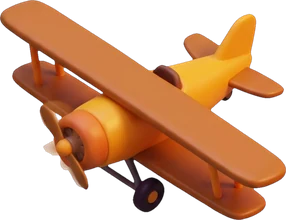
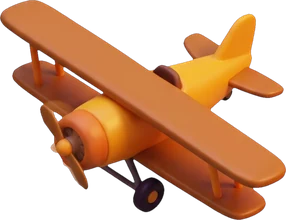
Шрифт Montserrat навсякъде и типографията на чакалнята; втори самолет без бяло около витлото

diff --git a/index.html b/index.html
@@ -4,14 +4,15 @@
 <meta charset="utf-8">
 <meta name="viewport" content="width=device-width,initial-scale=1,viewport-fit=cover">
 <title>Къде сме?</title>
-<link rel="stylesheet" href="https://fonts.googleapis.com/css2?family=Big+Shoulders+Display:wght@700;800&family=Atkinson+Hyperlegible:wght@400;700&family=Montserrat:ital,wght@0,900;1,900&display=swap">
+<link rel="stylesheet" href="https://fonts.googleapis.com/css2?family=Big+Shoulders+Display:wght@700;800&family=Montserrat:ital,wght@0,400;0,500;0,600;0,700;0,800;0,900;1,900&display=swap">
 <style>
 :root{
   /* night-navy palette: deep indigo ground, royal-blue panels, yellow accent */
   --bg:#0a0e33; --fg:#f2f4ff; --muted:#9ba4d9; --card:#141b55; --line:#2a3478;
   --accent:#ffc727; --accent-fg:#1a1400; --blue:#3b5bfd; --ok:#36d68f; --warn:#ff9f43; --bad:#ff5c7a;
-  --display:"Big Shoulders Display","Arial Narrow",Impact,sans-serif;
-  --body:"Atkinson Hyperlegible",system-ui,-apple-system,"Segoe UI",sans-serif;
+  --display:"Montserrat","Inter","Roboto",system-ui,sans-serif;
+  --body:"Montserrat","Inter","Roboto",system-ui,sans-serif;   /* one font for the whole interface */
+  --text-muted-light:#B4B9D6; --text-muted-dark:#7A82B8; --text-dark:#12142B;
   --heavy:"Montserrat","Arial Black",Impact,sans-serif;
   color-scheme:dark;
 }
@@ -46,8 +47,15 @@ body.home header{border-bottom-color:transparent}
 .card.glass>*{flex-shrink:0}
 .lobby-head{display:flex;align-items:center;gap:16px}
 .lobby-title{display:flex;flex-direction:column;gap:6px;min-width:0}
-.glass .lobby-head h2{font:900 clamp(30px,4.5vw,44px)/1 var(--heavy);text-transform:uppercase;letter-spacing:.01em}
-.glass p{color:#d6dbff}
+/* lobby type scale */
+.glass .lobby-head h2{font:800 32px/1.1 var(--body);text-transform:uppercase;letter-spacing:.5px;color:#fff}
+.card.glass p{color:var(--text-muted-light);font-size:14px;font-weight:400;line-height:1.5}
+.card.glass p.note{font-size:11px;font-weight:500;color:var(--text-muted-dark)}
+.glass .lbl{font-size:12px;font-weight:600;color:var(--text-muted-dark);letter-spacing:1px}
+.glass .prow b{font-size:15px;font-weight:600;color:#fff}
+.glass .chip{font-size:14px;font-weight:500;color:#fff}
+.glass .chip[aria-pressed="true"]{font-weight:700;color:var(--text-dark)}
+.glass .note,.glass .usage{font-size:11px;font-weight:500;color:var(--text-muted-dark);text-transform:uppercase;letter-spacing:.3px}
 .lobby-art{width:150px;flex:none;margin-left:auto;margin-block:-10px}.lobby-art img{width:100%;height:auto;display:block;filter:drop-shadow(0 8px 14px rgb(0 0 0 / .35))}
 .prows{gap:8px}
 .prow{padding:10px 12px;border-radius:12px;background:rgb(10 12 48 / .45);border:1px solid rgb(255 255 255 / .12);gap:12px}
@@ -57,7 +65,7 @@ body.home header{border-bottom-color:transparent}
 .cols{display:grid;grid-template-columns:1fr 1fr;gap:18px 28px}
 .col{display:flex;flex-direction:column;gap:16px;min-width:0}
 .glass .chip{background:rgb(10 12 48 / .55);border-color:rgb(255 255 255 / .14)}
-.glass .chip[aria-pressed="true"]{background:var(--accent);border-color:var(--accent);color:var(--accent-fg)}
+.glass .chip[aria-pressed="true"]{background:var(--accent);border-color:var(--accent);color:var(--text-dark);font-weight:700}
 .glass #ctry{max-height:180px}
 .glass .meter{height:8px;border-radius:4px;background:rgb(255 255 255 / .1)}
 .glass .meter>i{background:linear-gradient(90deg,#3b5bfd,#4fd1ff);border-radius:4px}
@@ -92,8 +100,8 @@ body.home header{border-bottom-color:transparent}
   .card.glass{padding:18px}.lobby-art{width:96px}
   .plane{display:none}
 }
-#round{font:700 18px/1 var(--display);letter-spacing:.06em;text-transform:uppercase;color:var(--muted)}
-#timer{font:800 24px/1 var(--display);font-variant-numeric:tabular-nums;letter-spacing:.04em}
+#round{font:700 14px/1 var(--display);letter-spacing:1px;text-transform:uppercase;color:var(--text-muted-light)}
+#timer{font:800 22px/1 var(--display);font-variant-numeric:tabular-nums}
 #timer.low{color:var(--accent)}
 #who{margin-left:auto;font-size:14px;color:var(--muted)}
 main{position:relative;flex:1;min-height:0}
@@ -116,7 +124,7 @@ main{position:relative;flex:1;min-height:0}
   box-shadow:0 6px 24px rgb(0 0 0 / .4)}
 .card.center{top:50%;bottom:auto;transform:translateY(-50%);max-height:calc(100% - 32px)}
 .card.wide{max-width:680px}
-.card h2{font:800 26px/1.05 var(--display);text-transform:uppercase;letter-spacing:.03em;margin:0}
+.card h2{font:800 22px/1.1 var(--display);text-transform:uppercase;letter-spacing:.5px;margin:0}
 .card p{margin:0;color:var(--muted)}
 .row{display:flex;gap:8px;flex-wrap:wrap;align-items:center}
 input{flex:1;min-width:0;font:inherit;padding:10px 12px;border:1px solid var(--line);border-radius:8px;background:var(--bg);color:var(--fg)}
@@ -147,7 +155,7 @@ li .pos{color:var(--muted);font-size:14px;width:1.6em}
 .meter.warn>i{background:var(--warn)}.meter.bad>i{background:var(--bad)}
 dialog{background:var(--card);color:var(--fg);border:1px solid var(--line);border-radius:12px;padding:20px;max-width:min(440px,calc(100% - 32px))}
 dialog::backdrop{background:rgb(0 0 0 / .6)}
-dialog h2{font:800 24px/1.1 var(--display);text-transform:uppercase;margin:0 0 10px}
+dialog h2{font:800 20px/1.2 var(--display);text-transform:uppercase;letter-spacing:.5px;margin:0 0 10px}
 dialog p{margin:0 0 16px;color:var(--muted)}
 [hidden]{display:none!important}
 @media (max-width:600px){
